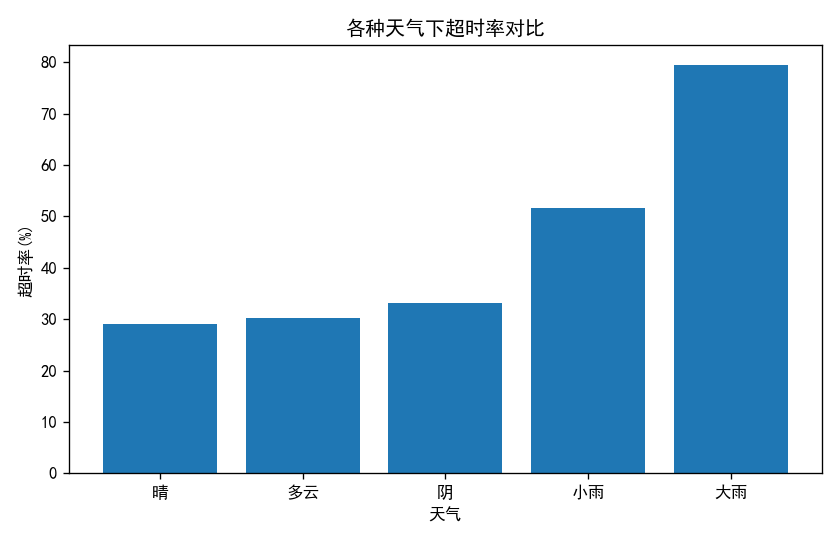
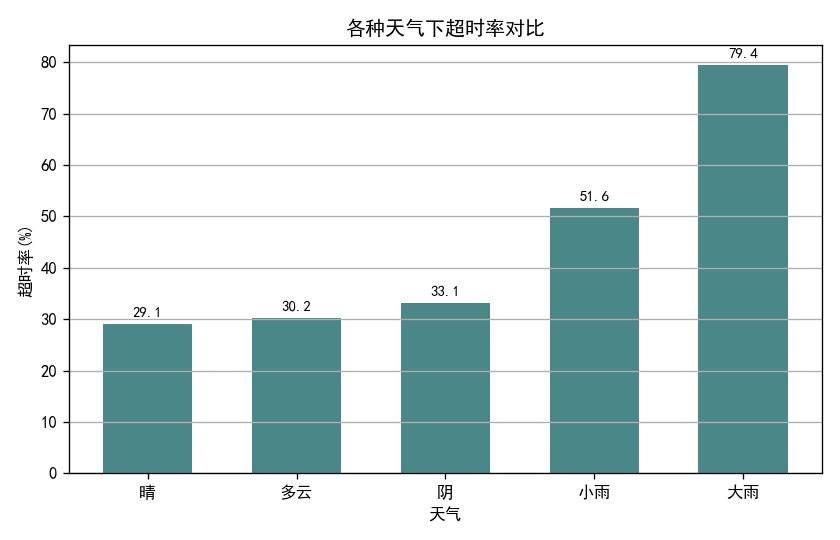
exp2 fig1 build final

diff --git a/exp2/main.py b/exp2/main.py
@@ -44,11 +44,19 @@ def draw_fig1(df):
     rate = df.groupby("weather")["is_overtime"].mean() * 100
     index = ["晴", "多云", "阴", "小雨", "大雨"]
     rate = rate.reindex(index)
+
     fig, ax = plt.subplots(figsize=(7,4.5))
-    ax.bar(rate.index, rate)
+    ax.bar(rate.index, rate, color="#4A8788", width=0.6)
+
     ax.set_title("各种天气下超时率对比")
     ax.set_xlabel("天气")
     ax.set_ylabel("超时率(%)")
+    ax.grid(axis="y")
+
+    for i, v in enumerate(rate):
+        ax.text(i, v+1, "%.1f" % v, ha="center", va="bottom",fontsize=9)
+
+
     save(fig, "fig1.png")
 
 
